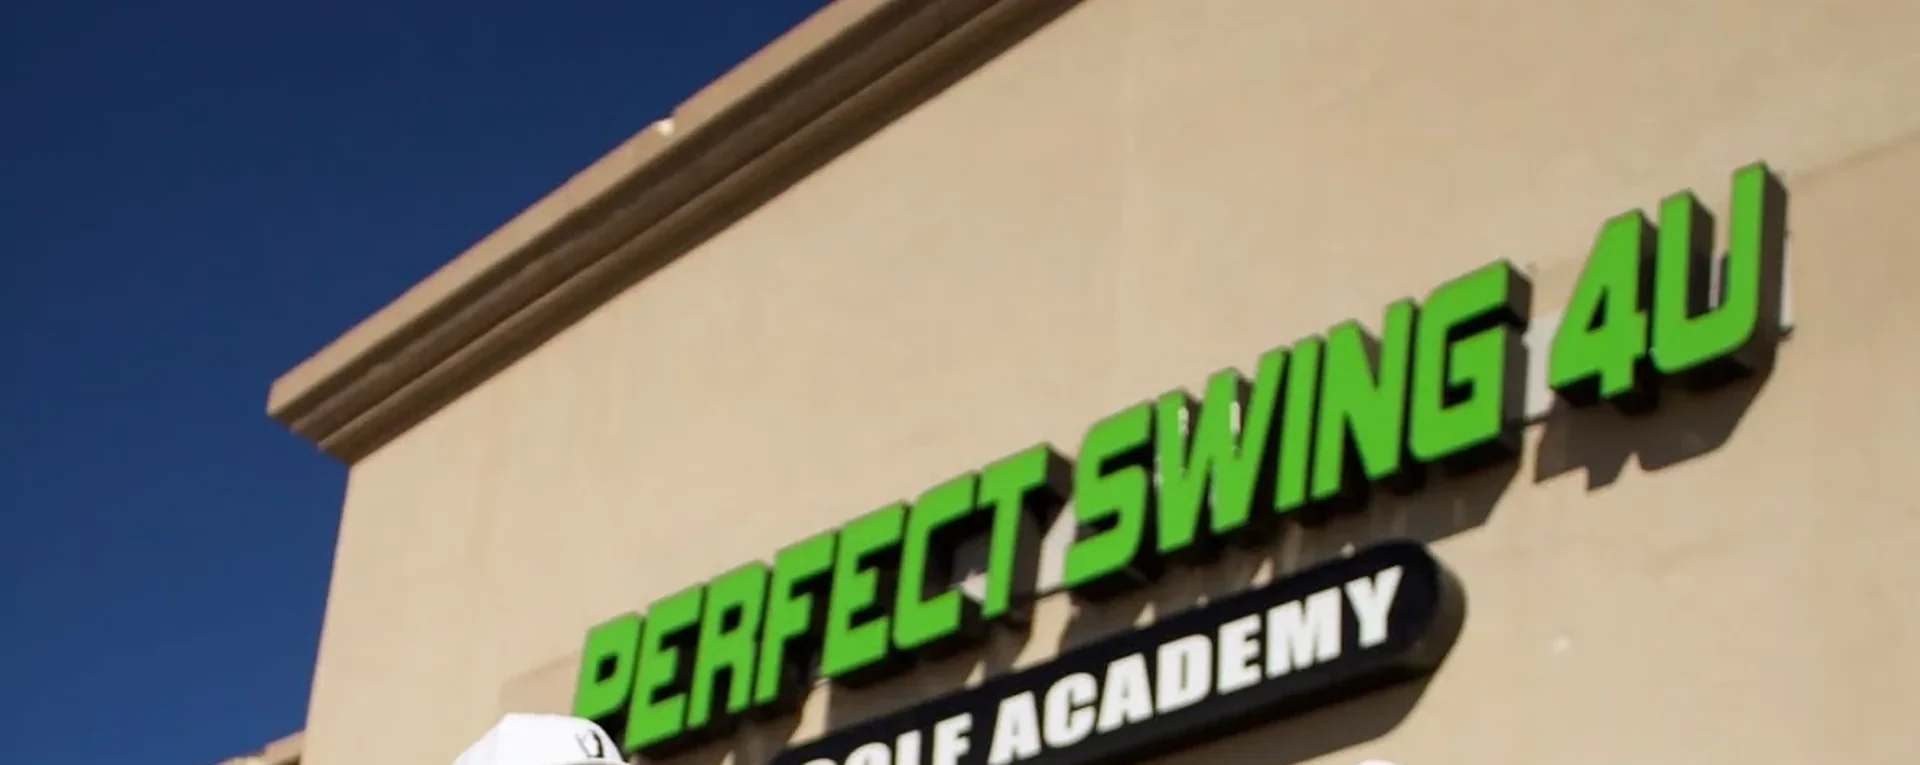
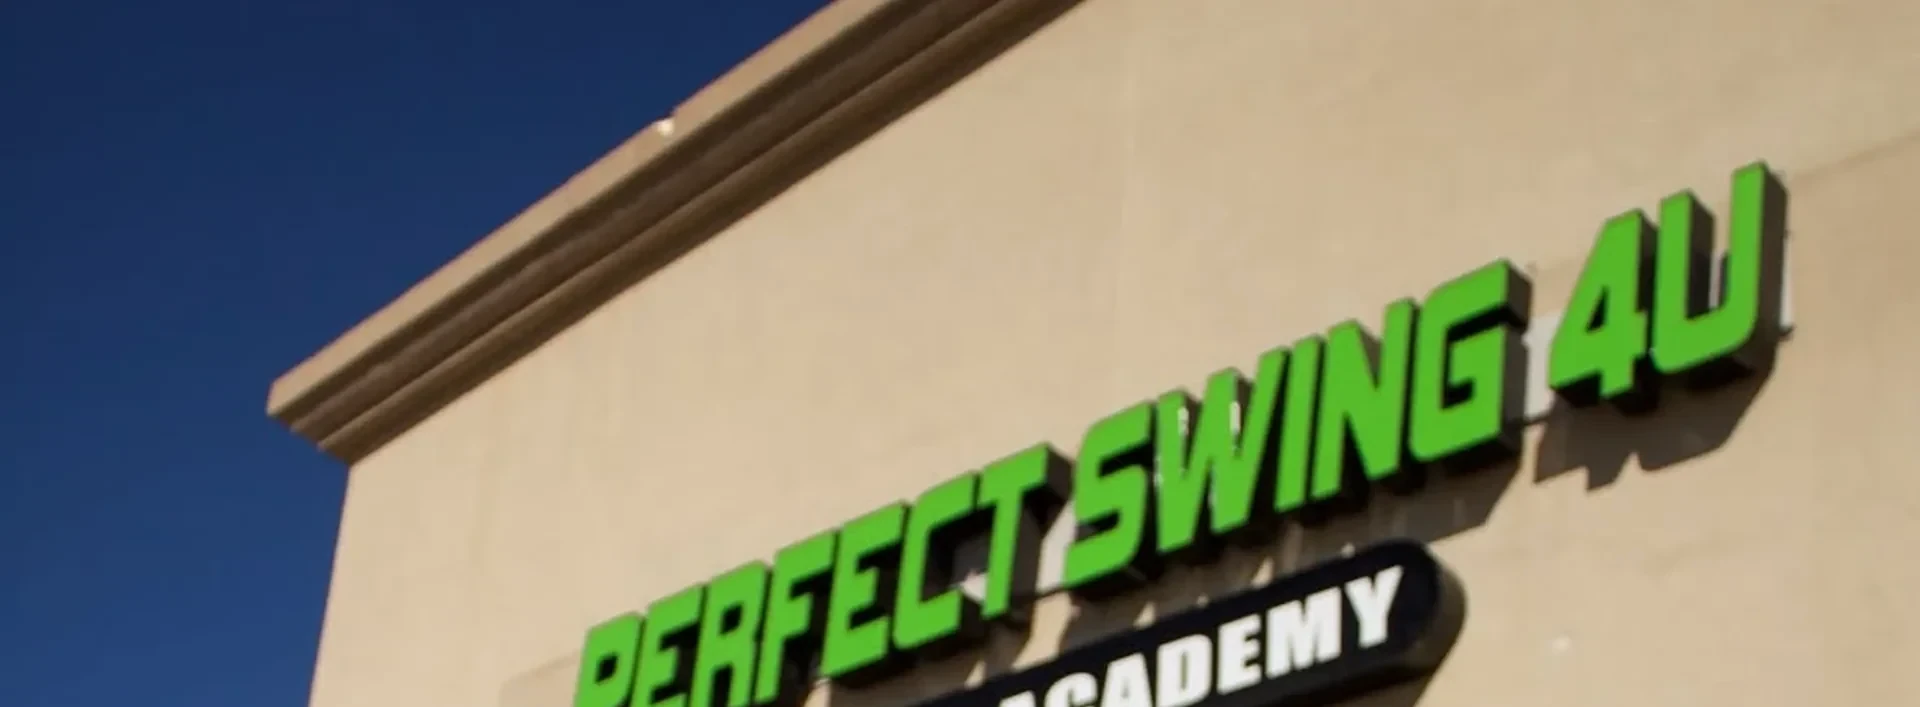
Copy fixes: ES terms, women welcome, no-shows, step3; Visit sign trim
Restore Spanish ajuste de palos / tienda de golf / horarios de salida.
Bring women back into the coaches welcome line. Standardize on
no-shows. Replace Own the change with Leave with one fix. Tighten
Visit sign crop to clear the bottom cap tip.

Changed region(s): [[0.2188, 0.2178, 0.9375, 1.0], [0.0938, 0.0311, 0.5312, 1.0], [0.5312, 0.0311, 0.5625, 0.0622]]

diff --git a/js/main.js b/js/main.js
@@ -29,7 +29,7 @@
       step2t: "Read the numbers",
       step2d:
         "FlightScope tracks ball speed, launch, spin, and carry on every shot. Face-on and down-the-line video. Capto on the putter for path, face, and tempo.",
-      step3t: "Own the change",
+      step3t: "Leave with one fix",
       step3d:
         "One or two adjustments that matter for your swing — not a laundry list. Drills you can repeat at the range or on the course.",
       priceTitle: "Clear prices. Full sessions.",
@@ -73,7 +73,7 @@
         "Head, shaft, loft, flex, length, lie, and grip matched to your FlightScope numbers. Driver $60, irons $80, full bag $160 — Memo specializes in fittings.",
       coachTitle: "Your coaches",
       coachSub:
-        "PGA, TPI, Capto, ADM. Beginners through high school. Military and veterans welcome.",
+        "PGA, TPI, Capto, ADM. Beginners through high school. Women, military, and veterans welcome.",
       yaserRole: "Head coach & founder",
       yaserTour: "U.S. Kids Golf tour director, El Paso chapter.",
       memoRole: "Instructor & club fitting specialist",
@@ -93,7 +93,7 @@
       contactLabel: "Contact",
       bookLabel: "Booking",
       bookBody:
-        "Square only. Reschedule with 24 hours’ notice; missed appointments forfeit 50%.",
+        "Square only. Reschedule with 24 hours’ notice; no-shows forfeit 50%.",
       ctaTitle: "Book on Square. Open Mon‑Fri 10am‑7pm.",
       ctaCopy:
         "Call (915) 449-3613, or walk in if a coach is free. Bring clubs — or use ours.",
@@ -113,11 +113,11 @@
       ctaMap: "Cómo llegar",
       heroTitle: "Clases de una hora bajo techo en N\u00A0Mesa.",
       heroLead:
-        "Bahía con clima controlado en Crown Point. Números FlightScope en cada golpe, video multiángulo, putting Capto y fittings con Yaser Garcia y Memo Vega.",
+        "Bahía con clima controlado en Crown Point. Números FlightScope en cada golpe, video multiángulo, putting Capto y ajuste de palos con Yaser Garcia y Memo Vega.",
       heroMeta: "5864 N Mesa St, Suite A · Lun‑Vie 10am‑7pm · Cerrado fines de semana",
       aboutTitle: "El calor se queda fuera. Tu hora, en el mat.",
       aboutCopy:
-        "Academia indoor en N Mesa en Crown Point, junto a Another Broken Egg Cafe. Lecciones de una hora completa, fittings y pro shop — sin tee times ni clima. Entra si hay coach libre. Hay palos si necesitas un set.",
+        "Academia indoor en N Mesa en Crown Point, junto a Another Broken Egg Cafe. Lecciones de una hora completa, ajuste de palos y tienda de golf — sin horarios de salida ni demoras por clima. Entra si hay coach libre. Hay palos si necesitas un set.",
       processTitle: "Reserva. Golpea. Sal con un ajuste claro.",
       processSub: "Reserva en Square. Una hora. Algo que practicar mañana.",
       step1t: "Reserva en Square",
@@ -126,7 +126,7 @@
       step2t: "Lee los números",
       step2d:
         "FlightScope registra velocidad de la pelota, lanzamiento, efecto y carry en cada golpe. Video de frente y desde atrás. Capto en el putter para trayectoria, cara y ritmo.",
-      step3t: "Haz tuyo el cambio",
+      step3t: "Sal con un ajuste",
       step3d:
         "Uno o dos ajustes que importan para tu swing — no una lista larga. Drills que puedes repetir en el range o en el campo.",
       priceTitle: "Precios claros. Sesiones completas.",
@@ -151,7 +151,7 @@
       policy:
         "Reprograma con 24 horas de aviso. Si faltas sin aviso pierdes el 50% de la clase. Reserva solo por Square.",
       techTitle: "Lo que hay en la bahía",
-      techSub: "FlightScope, video, Capto, fittings — para qué sirve cada uno.",
+      techSub: "FlightScope, video, Capto, ajuste de palos — para qué sirve cada uno.",
       tech1t: "FlightScope",
       tech1m: "Monitor de launch · cada swing completo",
       tech1d:
@@ -167,15 +167,15 @@
       tech4t: "Ajuste de palos",
       tech4m: "Driver · hierros · bolsa completa",
       tech4d:
-        "Cabeza, shaft, loft, flex, largo, lie y grip alineados a tus números de FlightScope. Driver $60, hierros $80, bolsa completa $160 — Memo se especializa en fittings.",
+        "Cabeza, shaft, loft, flex, largo, lie y grip alineados a tus números de FlightScope. Driver $60, hierros $80, bolsa completa $160 — Memo se especializa en ajuste de palos.",
       coachTitle: "Tus coaches",
       coachSub:
-        "PGA, TPI, Capto, ADM. Desde principiantes hasta preparatoria. Militar y veteranos bienvenidos.",
+        "PGA, TPI, Capto, ADM. Desde principiantes hasta preparatoria. Mujeres, militares y veteranos bienvenidos.",
       yaserRole: "Entrenador principal y fundador",
       yaserTour: "Director de tour U.S. Kids Golf, capítulo El Paso.",
       memoRole: "Instructor y especialista en ajuste de palos",
       memoCred: "Especialista en ajuste de palos",
-      brandsTitle: "Marcas del pro shop",
+      brandsTitle: "Marcas de la tienda de golf",
       reviewsTitle: "De golfistas que reservaron aquí",
       reviewsSub: "Como en perfectswing4u.org — sin editar.",
       visitTitle: "Encuéntranos en N Mesa",
@@ -207,7 +207,7 @@
 
   var memoBio = {
     en: "ADM certified. Runs fittings and private lessons with clear talk and visualization — beginners through competitive high school. Driver, iron, and full-bag fittings on FlightScope numbers.",
-    es: "Certificado ADM. Hace fittings y clases privadas con conversación clara y visualización — desde principiantes hasta preparatoria competitiva. Ajustes de driver, hierros y bolsa completa con números FlightScope.",
+    es: "Certificado ADM. Hace ajuste de palos y clases privadas con conversación clara y visualización — desde principiantes hasta preparatoria competitiva. Ajustes de driver, hierros y bolsa completa con números FlightScope.",
   };
 
   function applyLang(lang) {

diff --git a/index.html b/index.html
@@ -153,7 +153,7 @@
           <article class="step">
             <div class="step-num" aria-hidden="true">03</div>
             <div>
-              <h3 data-i18n="step3t">Own the change</h3>
+              <h3 data-i18n="step3t">Leave with one fix</h3>
               <p data-i18n="step3d">One or two adjustments that matter for your swing — not a laundry list. Drills you can repeat at the range or on the course.</p>
             </div>
           </article>
@@ -256,7 +256,7 @@
       <div class="wrap">
         <div class="coaches-intro">
           <h2 id="coaches-title" data-i18n="coachTitle">Your coaches</h2>
-          <p class="sub" data-i18n="coachSub">PGA, TPI, Capto, ADM. Beginners through high school. Military and veterans welcome.</p>
+          <p class="sub" data-i18n="coachSub">PGA, TPI, Capto, ADM. Beginners through high school. Women, military, and veterans welcome.</p>
         </div>
 
         <div class="coach-list">
@@ -351,7 +351,7 @@
         <p class="sub" data-i18n="visitSub">Crown Point, next to Another Broken Egg Cafe. Mon‑Fri 10am‑7pm.</p>
         <div class="visit-layout">
           <div class="visit-photo">
-            <img src="assets/storefront-sign.webp" width="960" height="355" alt="PERFECT SWING 4U GOLF ACADEMY storefront sign" loading="lazy">
+            <img src="assets/storefront-sign.webp" width="960" height="354" alt="PERFECT SWING 4U GOLF ACADEMY storefront sign" loading="lazy">
           </div>
           <div class="visit-grid">
             <div class="visit-card">
@@ -369,7 +369,7 @@
               <p><a href="tel:+19154493613">(915) 449-3613</a><br>
               <a href="mailto:perfectswing4u@gmail.com">perfectswing4u@gmail.com</a></p>
               <h3 class="visit-spaced" data-i18n="bookLabel">Booking</h3>
-              <p data-i18n="bookBody">Square only. Reschedule with 24 hours’ notice; missed appointments forfeit 50%.</p>
+              <p data-i18n="bookBody">Square only. Reschedule with 24 hours’ notice; no-shows forfeit 50%.</p>
               <p class="visit-link"><a class="btn btn-gold" href="https://perfectswing4u.square.site/" data-i18n="ctaBook">Book a lesson</a></p>
             </div>
           </div>

diff --git a/css/styles.css b/css/styles.css
@@ -996,8 +996,8 @@ a.btn-gold:hover,
 }
 
 .visit-photo {
-  /* Match storefront-sign.webp (~1920×765) so lettering isn’t cover-cropped */
-  aspect-ratio: 2.51 / 1;
+  /* Match storefront-sign.webp (~1920×707) so lettering isn’t cover-cropped */
+  aspect-ratio: 2.72 / 1;
   overflow: hidden;
   border-radius: var(--radius);
   background: var(--sand);
